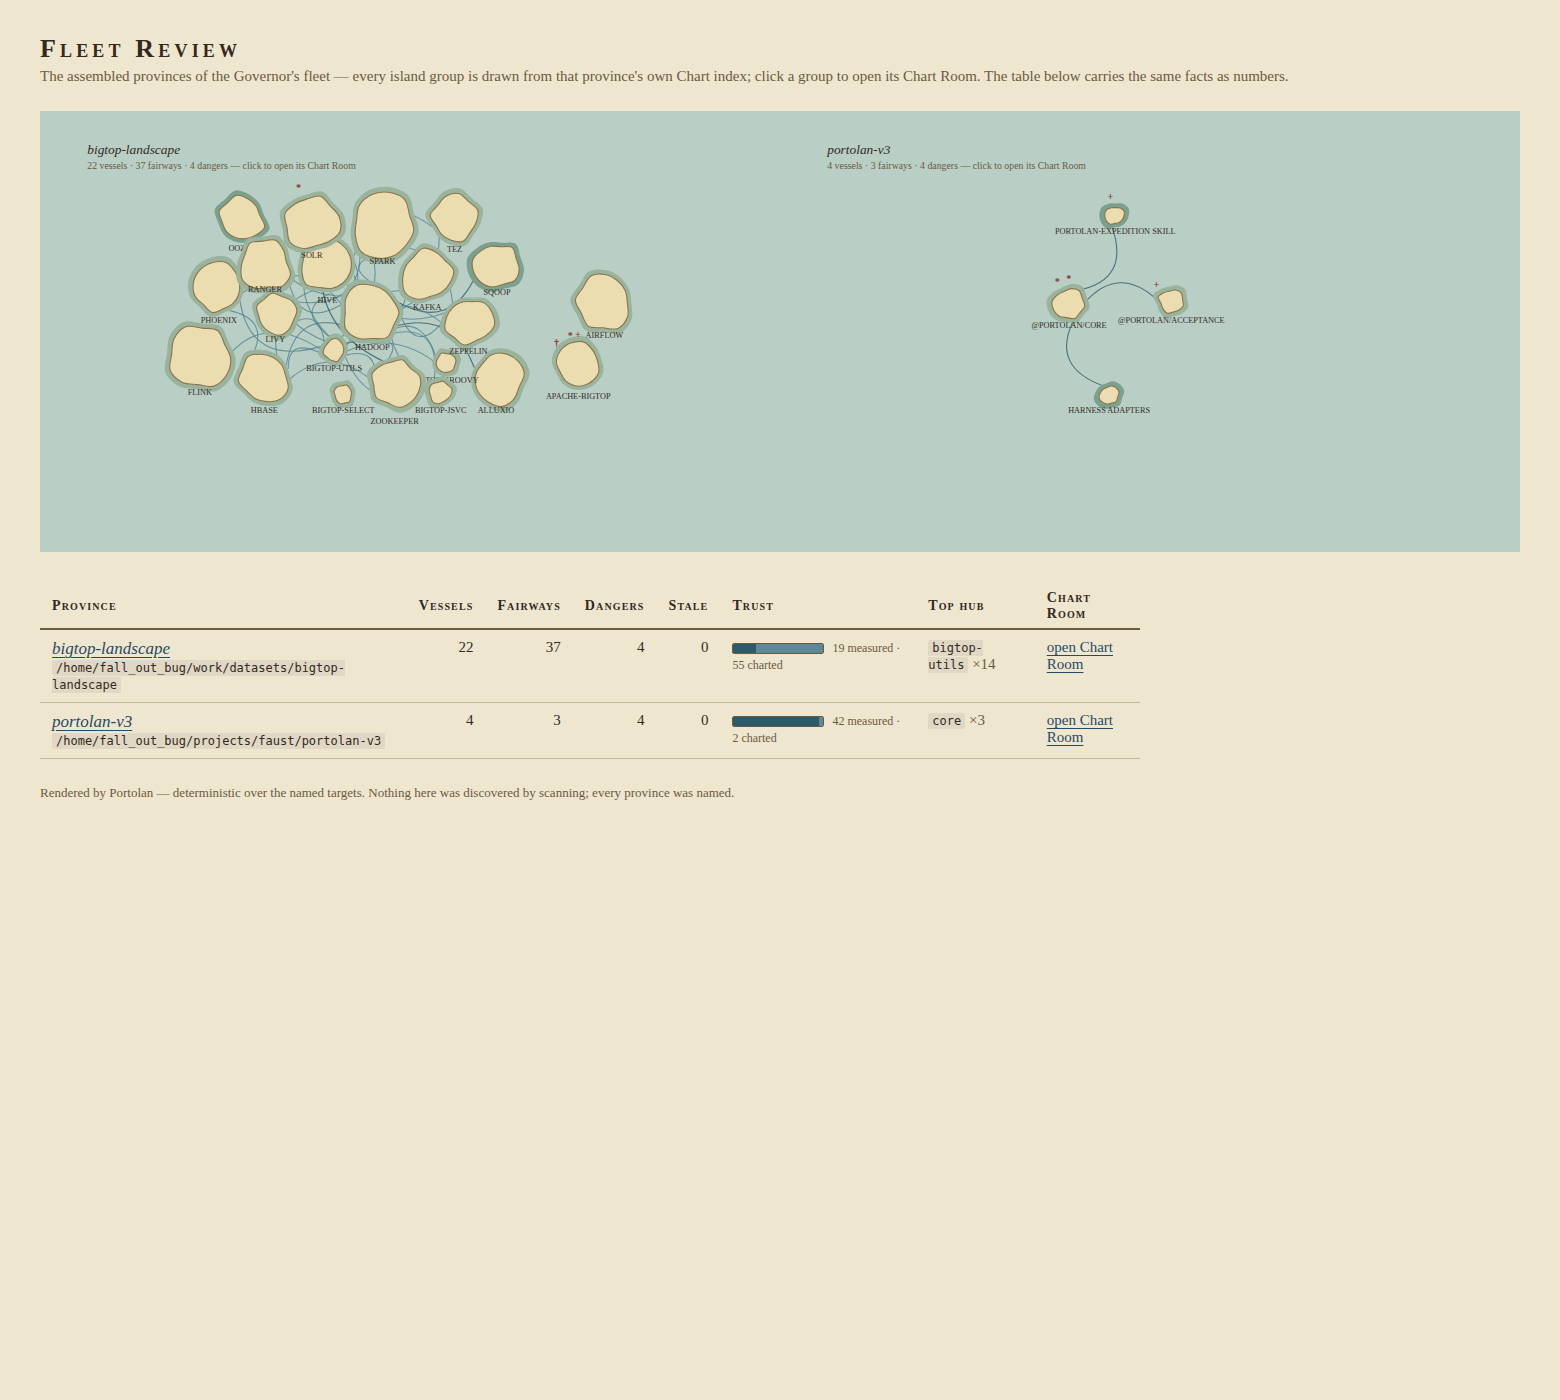
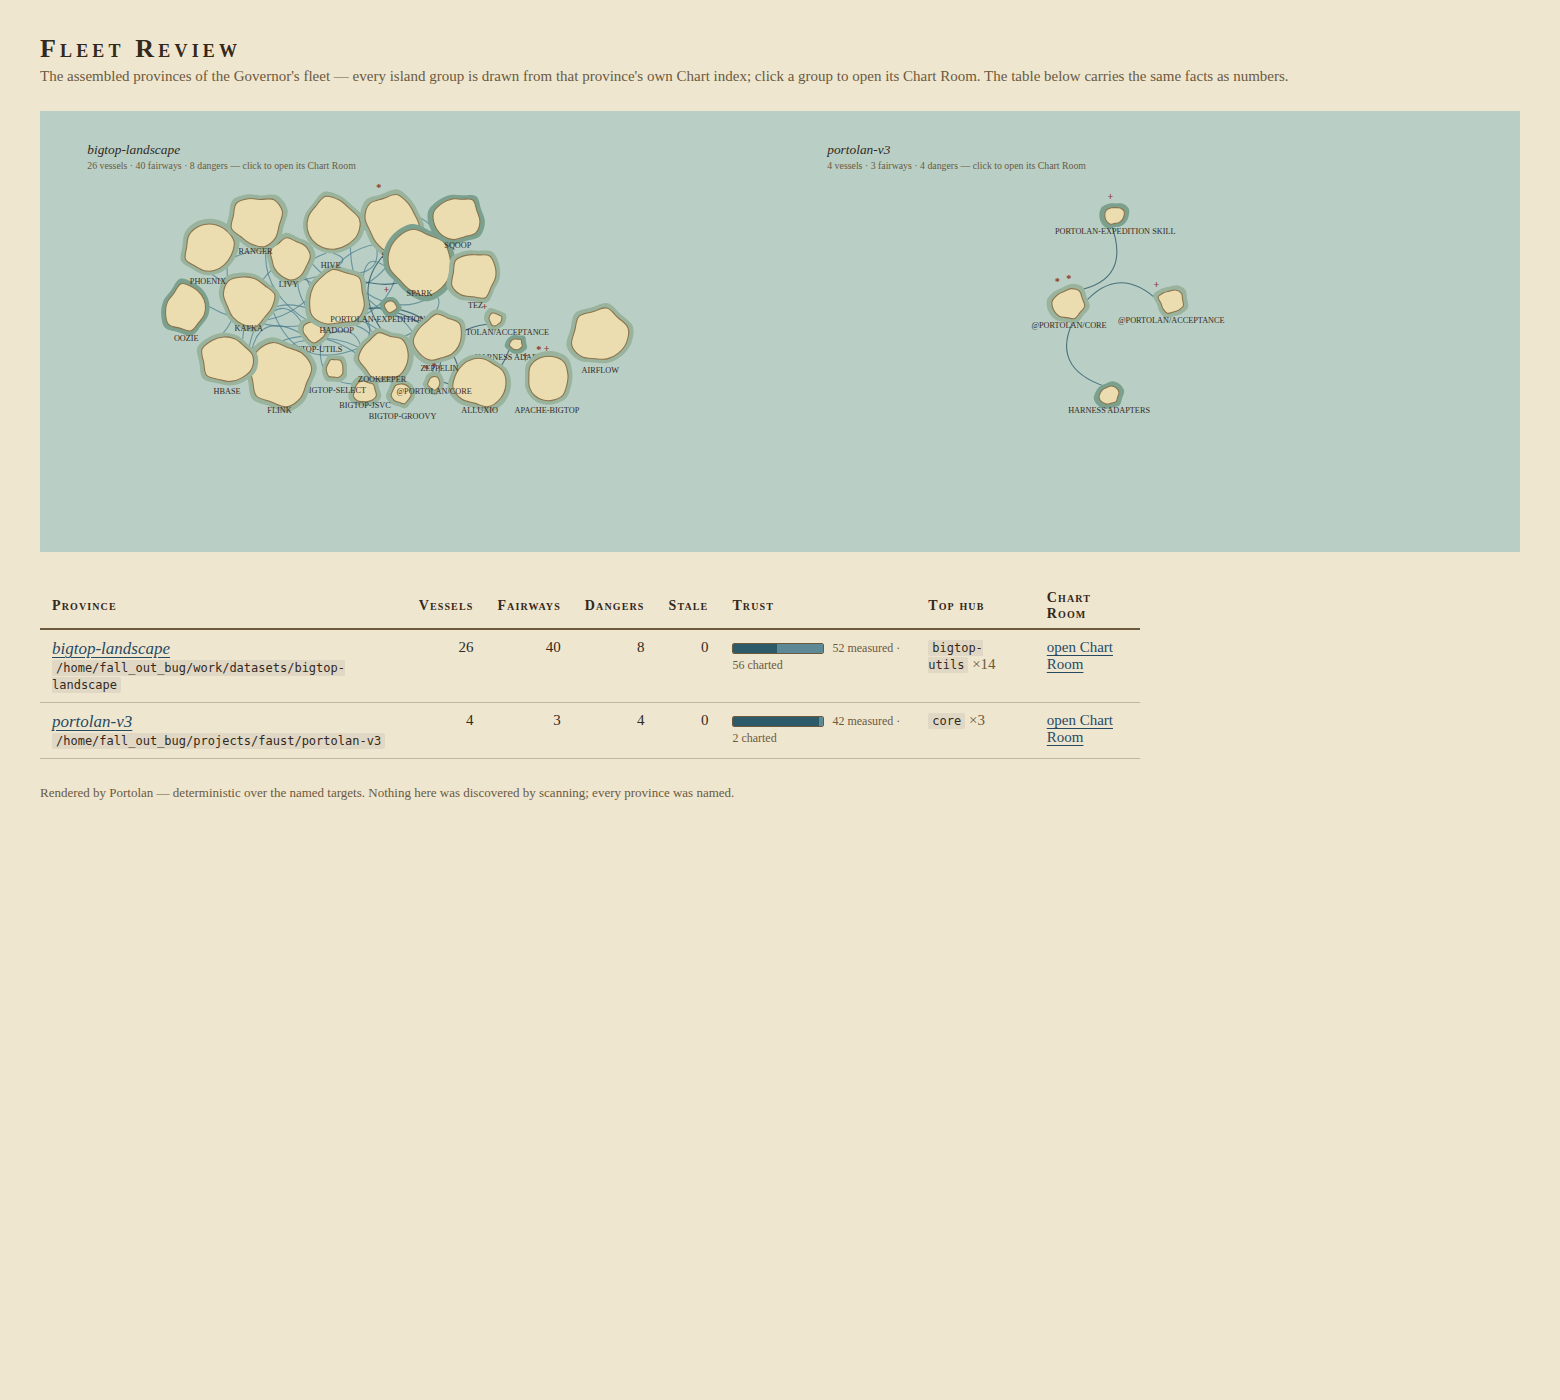
docs: landing reflects the expedition fleet — 108 entries, 26/26 behavior, fresh screenshots

Changed region(s): [[0.0923, 0.1229, 0.4308, 0.3071]]

diff --git a/docs/landing.html b/docs/landing.html
@@ -127,12 +127,16 @@
      expedition fleet, now wearing its hover plates and honesty ledgers.</p>
   <table>
     <tr><th>Province facts</th><td>Bigtop master repo + 19 BOM components + 2 retired hulls ·
-        74+ charted entries · hubs: bigtop-utils ×15, hadoop ×11 · dangers: version skew,
+        <b>108 charted entries</b> · hubs: bigtop-utils ×15, hadoop ×11 · 8 dangers: version skew,
         undeclared solr↔zookeeper, retired hulls, copy-paste recipes</td></tr>
-    <tr><th>Honest zeros</th><td>runtime topology unsurveyed by design until behavior expeditions run —
-        the lamps say so, in red, on every island</td></tr>
+    <tr><th>Expedition fleet</th><td>30+ headless expeditions (opencode + glm-5.3) turned
+        0 → <b>26/26 vessels with observed behavior</b> and 3 → <b>26 charted API lights</b>;
+        measured-trust facts grew 19 → <b>52</b>. Every write receipted in the ship's log.</td></tr>
+    <tr><th>Honest zeros</th><td>What no expedition observed is still labeled
+        <code>unsurveyed</code> — the lamps say so, in red, on every island.</td></tr>
     <tr><th>Self-healing proof</th><td>Night watch launched real repair expeditions (history:
-        <code>by: night-watch</code>), gap fleets closed behavior/light gaps by hand-run.</td></tr>
+        <code>by: night-watch</code>); a live clobber incident (2-entry partial write) exposed a
+        store gap — fixed as a shrink guard; the chart was restored from byproduct snapshots.</td></tr>
   </table>
 </section>
 
